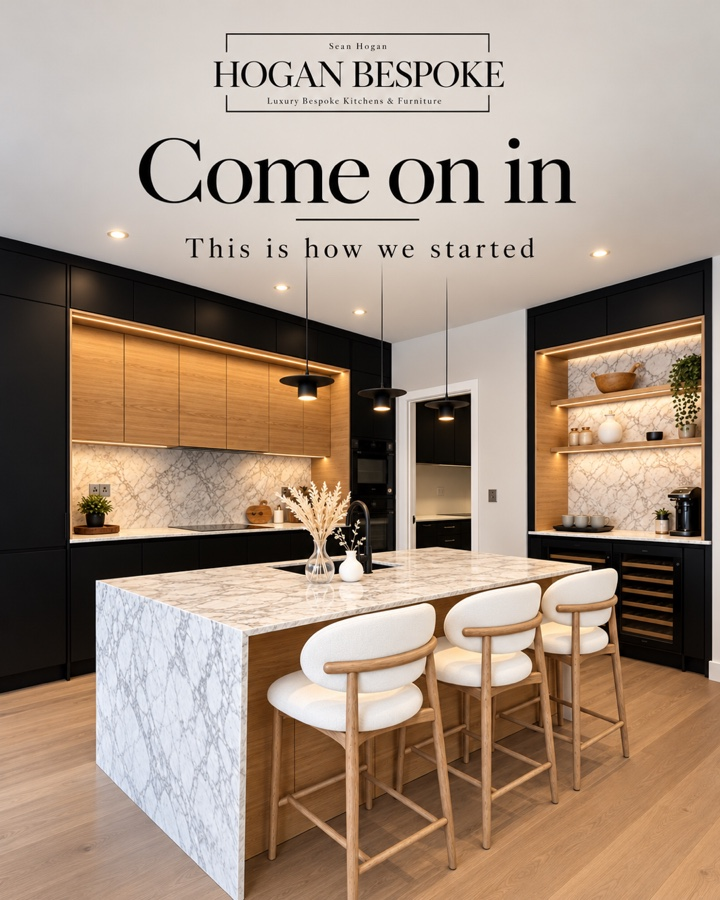
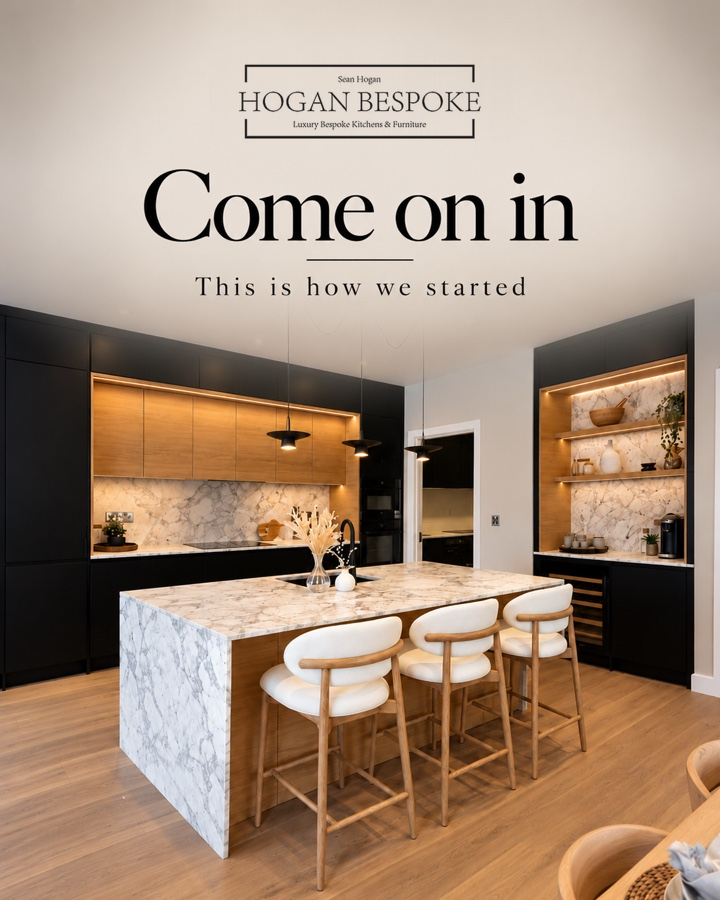
Hogan post 1: corrected cover

diff --git a/public/approve/hogan-bespoke-x96pyh/index.html b/public/approve/hogan-bespoke-x96pyh/index.html
@@ -37,7 +37,7 @@
     <span>Eli Fátima · Irish Business Boosters · hello@irishbusinessboosters.com</span>
   </footer>
 </div>
-<script id="approval-data" type="application/json">{"page": "hogan-bespoke-x96pyh", "client": "Sean", "username": "hogan_bespoke_furniture", "avatar": "logo.png", "location": "Waterford, Ireland", "profile": {"id": "profile", "title": "New bio and highlights", "chips": ["Pick one bio"], "intro": "This is how your profile will look by the end of November: the new bio, the new highlight covers and the new posts at the top.", "about": "Both bios say who you are, what you make, and that you fit all over Ireland. Pick the one that sounds more like you.", "name": "Hogan Bespoke | Kitchens Ireland", "category": "Kitchen & cabinet designer", "link": "hoganbespokefurniture.com", "stats": ["175", "1,407", "609"], "choices": [{"id": "Bio A", "label": "Bio A · leads with the title", "bio": "IrelandSkills cabinetmaking champion 🏆\nBespoke kitchens, wardrobes & media walls\nHandmade in Waterford · Fitted all over Ireland\n👇 Get a quote"}, {"id": "Bio B", "label": "Bio B · softer", "bio": "Award-winning cabinetmaker 🏆\nKitchens, wardrobes, media walls & stairs\nHandmade in Waterford · Fitted all over Ireland\n👇 Get a quote"}], "highlights": [{"src": "covers/light-01-our-story.jpg", "name": "Our Story"}, {"src": "covers/light-02-kitchens.jpg", "name": "Kitchens"}, {"src": "covers/light-03-reviews.jpg", "name": "Reviews"}, {"src": "covers/light-04-wardrobes.jpg", "name": "Wardrobes"}, {"src": "covers/light-05-media-walls.jpg", "name": "Media Walls"}, {"src": "covers/light-06-commercial.jpg", "name": "Commercial"}, {"src": "covers/light-07-process.jpg", "name": "Process"}, {"src": "covers/light-08-joinery.jpg", "name": "Joinery"}, {"src": "covers/light-09-get-a-quote.jpg", "name": "Get a Quote"}], "grid": ["posts/08-commercial.jpg?v=3", "posts/07-christmas-media-wall.jpg?v=3", "posts/06-wardrobes.jpg?v=3", "posts/05-workshop.jpg?v=3", "posts/04-kitchens.jpg?v=3", "posts/03-the-reveal.jpg?v=3", "posts/02-what-we-make.jpg?v=3", "posts/01-slide-01.jpg?v=6", "posts/old-2026-trim-castle-hotel.jpg?v=3"]}, "postsTitle": "Your November posts", "postsIntro": "Eight posts, Mondays and Thursdays. Post 1 is fully designed; for the others you're seeing the cover, and we'll finish the slides as soon as the photos and details are in. The yellow bits are details we still need from you.", "posts": [{"id": "post-01", "date": "2026-11-02", "kind": "carousel", "title": "Our story", "chips": ["Carousel · 9 slides", "Pinned to the top"], "images": ["posts/01-slide-01.jpg?v=6", "posts/01-slide-02.jpg?v=3", "posts/01-slide-03.jpg?v=3", "posts/01-slide-04.jpg?v=3", "posts/01-slide-05.jpg?v=3", "posts/01-slide-06.jpg?v=3", "posts/01-slide-07.jpg?v=3", "posts/01-slide-08.jpg?v=3", "posts/01-slide-09.jpg?v=3"], "about": "Our first post: the story of the company, from the national title in 2017 to opening the workshop in August 2020 and everything we've built since. Mostly photos, with a short caption on each.", "need": "A photo from IrelandSkills 2017 for slide 3. Any old phone photo is fine.", "caption": "Our story, from a national title to kitchens all over Ireland.\n\nIn 2017, our founder Sean Hogan won IrelandSkills, the national championship for cabinetmaking, and went on to captain Team Ireland at WorldSkills in Abu Dhabi.\n\nIn August 2020, in the middle of a pandemic, we opened our workshop in Waterford.\n\nSince then we've designed and built kitchens, wardrobes, media walls and stairs for homes all over Ireland, and fitted out hotels and businesses like Trim Castle Hotel.\n\nEverything is still made by hand in our own workshop, to the same standard.\n\nOver the coming weeks we'll show you more of the work, and how it's made. Glad to have you here.", "tags": "#bespokekitchens #irishkitchens #handmadeinireland #bespokefurniture #waterford"}, {"id": "post-02", "date": "2026-11-05", "kind": "carousel", "title": "What we make", "chips": ["Carousel · 7 slides", "Pinned to the top", "Cover shown"], "images": ["posts/02-what-we-make.jpg?v=3"], "about": "A clear menu of everything you do, one slide per service. It stays pinned so anyone landing on your profile sees it straight away.", "need": "Is anything missing from the list? And do you do handleless kitchens?", "caption": "Everything we make is designed and built for one room only. Here's what that covers:\n\n· Kitchens: shaker, in-frame and handleless, painted or natural wood\n· Wardrobes: fitted, sliding and walk-in\n· Media walls: TV units, fireplaces, shelving and lighting\n· Stairs & joinery: staircases, drinks units, panelling and doors\n· Home offices and utility rooms\n· Commercial fit-outs: hotels, bars, offices and public buildings\n\nWe fit all over Ireland. Tell us what you're planning: send us a message or tap the link in our bio.", "tags": "#bespokefurniture #bespokekitchens #fittedwardrobes #mediawall #madeinireland"}, {"id": "post-03", "date": "2026-11-09", "kind": "reel", "length": "15 s", "title": "The reveal: navy kitchen", "chips": ["Reel"], "images": ["posts/03-the-reveal.jpg?v=3"], "about": "A slow walk into the navy kitchen, past the island, a drawer opening and closing softly. Calm music, no talking.", "need": "A video of this kitchen, if you have one (even a short phone clip). If not, I'll make it from the photos. Roughly how many weeks did it take?", "caption": "Every one of our kitchens is designed and built for one room only.\n\nThis one: navy painted shaker doors, premium stone worktops and a waterfall island. [X] weeks from first measure to final fit.\n\nPlanning a kitchen for 2027? Send us a message or tap the link in our bio.", "tags": "#bespokekitchens #navykitchen #irishkitchens #kitchendesignireland"}, {"id": "post-04", "date": "2026-11-12", "kind": "carousel", "title": "What we make: Kitchens", "chips": ["Carousel · 6 slides", "Series: What we make", "Cover shown"], "images": ["posts/04-kitchens.jpg?v=3"], "about": "The first of the \"What we make\" series. Slides: the styles (shaker, in-frame, handleless) · the materials · what's included · how long it takes · how to start.", "need": "How long does a kitchen usually take, from first visit to fitted? And which worktops do you use most?", "caption": "What goes into a Hogan Bespoke kitchen?\n\n· The style: shaker, in-frame or handleless\n· The wood: solid oak, ash or walnut, painted or natural\n· The worktop: [quartz, stone or solid wood]\n· The design: you see it in 3D before we cut a single board\n· The timing: around [X] weeks from first visit to final fit\n\nAll made in our workshop in Waterford and fitted by our own team, anywhere in Ireland.\n\nSwipe for the details 👉", "tags": "#bespokekitchens #shakerkitchen #irishkitchens #kitchendesignireland"}, {"id": "post-05", "date": "2026-11-16", "kind": "reel", "length": "15–20 s", "title": "From the workshop", "chips": ["Reel"], "images": ["posts/05-workshop.jpg?v=3"], "about": "Quick clips of hands and timber: cutting, shaping, sanding and assembling a door, with the real workshop sound. Ends on the finished piece.", "need": "We film this together on Tuesday 27 October. Five minutes at the bench is plenty.", "caption": "Before it's a kitchen door, it's a board of [timber] on our bench in Waterford.\n\nWe cut, shape, sand and assemble everything ourselves, so we control every millimetre, and nothing arrives on site that we haven't checked by hand.", "tags": "#handmadeinireland #cabinetmaker #bespokefurniture #waterford"}, {"id": "post-06", "date": "2026-11-19", "kind": "carousel", "title": "What we make: Wardrobes", "chips": ["Carousel · 6 slides", "Series: What we make", "Cover shown"], "images": ["posts/06-wardrobes.jpg?v=3"], "about": "Series, part 2. Slides: fitted · sliding · walk-in · children's rooms · what goes inside (rails, drawers, shoe racks, lighting).", "caption": "Fitted, sliding or walk-in: every wardrobe we make is built around the room and what goes in it.\n\nInside, you choose: hanging rails and pull-down rails, drawers, shoe racks, shelving and LED lighting.\n\nSwipe to see the options 👉\n\nThinking about a wardrobe? Send us a message with a photo of the space.", "tags": "#fittedwardrobes #walkinwardrobe #bespokefurniture #irishhomes"}, {"id": "post-07", "date": "2026-11-23", "kind": "reel", "length": "10–15 s", "title": "The room you'll spend Christmas in", "chips": ["Reel", "Christmas"], "images": ["posts/07-christmas-media-wall.jpg?v=3"], "about": "Starts on a detail (the LED light, a shelf) and opens out to the whole media wall, with the fire on.", "need": "A video of a media wall with the lights or fire on, if you have one.", "caption": "The room everyone ends up in at Christmas.\n\nThis media wall hides every cable, frames the fire and lights up the shelves, all built to fit the room to the millimetre.\n\nToo late for this Christmas? Plenty of time for the next one. Send us a message.", "tags": "#mediawall #livingroomideas #irishhomes #christmasathome"}, {"id": "post-08", "date": "2026-11-26", "kind": "carousel", "title": "What we make: Commercial", "chips": ["Carousel · 6 slides", "Series: What we make", "Cover shown"], "images": ["posts/08-commercial.jpg?v=3"], "about": "Series, part 3: the Trim Castle Hotel fit-out, with the other businesses you've built for on the last slide.", "need": "Are you happy for us to name The Fitzwilton, Bausch + Lomb, Clonmel Credit Union and the Garda station? I can leave out any of them.", "caption": "It's not only homes.\n\nWe recently completed the fit-out at Trim Castle Hotel: [what we built, e.g. the bar and back bar], made in our Waterford workshop and fitted on site.\n\nOver the years we've also built for The Fitzwilton Hotel, Bausch + Lomb, Clonmel Credit Union and Waterford Garda Station.\n\nPlanning a fit-out? Email sales@hoganbespoke.com.", "tags": "#commercialjoinery #hotelinteriors #shopfitting #madeinireland"}]}</script>
+<script id="approval-data" type="application/json">{"page": "hogan-bespoke-x96pyh", "client": "Sean", "username": "hogan_bespoke_furniture", "avatar": "logo.png", "location": "Waterford, Ireland", "profile": {"id": "profile", "title": "New bio and highlights", "chips": ["Pick one bio"], "intro": "This is how your profile will look by the end of November: the new bio, the new highlight covers and the new posts at the top.", "about": "Both bios say who you are, what you make, and that you fit all over Ireland. Pick the one that sounds more like you.", "name": "Hogan Bespoke | Kitchens Ireland", "category": "Kitchen & cabinet designer", "link": "hoganbespokefurniture.com", "stats": ["175", "1,407", "609"], "choices": [{"id": "Bio A", "label": "Bio A · leads with the title", "bio": "IrelandSkills cabinetmaking champion 🏆\nBespoke kitchens, wardrobes & media walls\nHandmade in Waterford · Fitted all over Ireland\n👇 Get a quote"}, {"id": "Bio B", "label": "Bio B · softer", "bio": "Award-winning cabinetmaker 🏆\nKitchens, wardrobes, media walls & stairs\nHandmade in Waterford · Fitted all over Ireland\n👇 Get a quote"}], "highlights": [{"src": "covers/light-01-our-story.jpg", "name": "Our Story"}, {"src": "covers/light-02-kitchens.jpg", "name": "Kitchens"}, {"src": "covers/light-03-reviews.jpg", "name": "Reviews"}, {"src": "covers/light-04-wardrobes.jpg", "name": "Wardrobes"}, {"src": "covers/light-05-media-walls.jpg", "name": "Media Walls"}, {"src": "covers/light-06-commercial.jpg", "name": "Commercial"}, {"src": "covers/light-07-process.jpg", "name": "Process"}, {"src": "covers/light-08-joinery.jpg", "name": "Joinery"}, {"src": "covers/light-09-get-a-quote.jpg", "name": "Get a Quote"}], "grid": ["posts/08-commercial.jpg?v=3", "posts/07-christmas-media-wall.jpg?v=3", "posts/06-wardrobes.jpg?v=3", "posts/05-workshop.jpg?v=3", "posts/04-kitchens.jpg?v=3", "posts/03-the-reveal.jpg?v=3", "posts/02-what-we-make.jpg?v=3", "posts/01-slide-01.jpg?v=7", "posts/old-2026-trim-castle-hotel.jpg?v=3"]}, "postsTitle": "Your November posts", "postsIntro": "Eight posts, Mondays and Thursdays. Post 1 is fully designed; for the others you're seeing the cover, and we'll finish the slides as soon as the photos and details are in. The yellow bits are details we still need from you.", "posts": [{"id": "post-01", "date": "2026-11-02", "kind": "carousel", "title": "Our story", "chips": ["Carousel · 9 slides", "Pinned to the top"], "images": ["posts/01-slide-01.jpg?v=7", "posts/01-slide-02.jpg?v=3", "posts/01-slide-03.jpg?v=3", "posts/01-slide-04.jpg?v=3", "posts/01-slide-05.jpg?v=3", "posts/01-slide-06.jpg?v=3", "posts/01-slide-07.jpg?v=3", "posts/01-slide-08.jpg?v=3", "posts/01-slide-09.jpg?v=3"], "about": "Our first post: the story of the company, from the national title in 2017 to opening the workshop in August 2020 and everything we've built since. Mostly photos, with a short caption on each.", "need": "A photo from IrelandSkills 2017 for slide 3. Any old phone photo is fine.", "caption": "Our story, from a national title to kitchens all over Ireland.\n\nIn 2017, our founder Sean Hogan won IrelandSkills, the national championship for cabinetmaking, and went on to captain Team Ireland at WorldSkills in Abu Dhabi.\n\nIn August 2020, in the middle of a pandemic, we opened our workshop in Waterford.\n\nSince then we've designed and built kitchens, wardrobes, media walls and stairs for homes all over Ireland, and fitted out hotels and businesses like Trim Castle Hotel.\n\nEverything is still made by hand in our own workshop, to the same standard.\n\nOver the coming weeks we'll show you more of the work, and how it's made. Glad to have you here.", "tags": "#bespokekitchens #irishkitchens #handmadeinireland #bespokefurniture #waterford"}, {"id": "post-02", "date": "2026-11-05", "kind": "carousel", "title": "What we make", "chips": ["Carousel · 7 slides", "Pinned to the top", "Cover shown"], "images": ["posts/02-what-we-make.jpg?v=3"], "about": "A clear menu of everything you do, one slide per service. It stays pinned so anyone landing on your profile sees it straight away.", "need": "Is anything missing from the list? And do you do handleless kitchens?", "caption": "Everything we make is designed and built for one room only. Here's what that covers:\n\n· Kitchens: shaker, in-frame and handleless, painted or natural wood\n· Wardrobes: fitted, sliding and walk-in\n· Media walls: TV units, fireplaces, shelving and lighting\n· Stairs & joinery: staircases, drinks units, panelling and doors\n· Home offices and utility rooms\n· Commercial fit-outs: hotels, bars, offices and public buildings\n\nWe fit all over Ireland. Tell us what you're planning: send us a message or tap the link in our bio.", "tags": "#bespokefurniture #bespokekitchens #fittedwardrobes #mediawall #madeinireland"}, {"id": "post-03", "date": "2026-11-09", "kind": "reel", "length": "15 s", "title": "The reveal: navy kitchen", "chips": ["Reel"], "images": ["posts/03-the-reveal.jpg?v=3"], "about": "A slow walk into the navy kitchen, past the island, a drawer opening and closing softly. Calm music, no talking.", "need": "A video of this kitchen, if you have one (even a short phone clip). If not, I'll make it from the photos. Roughly how many weeks did it take?", "caption": "Every one of our kitchens is designed and built for one room only.\n\nThis one: navy painted shaker doors, premium stone worktops and a waterfall island. [X] weeks from first measure to final fit.\n\nPlanning a kitchen for 2027? Send us a message or tap the link in our bio.", "tags": "#bespokekitchens #navykitchen #irishkitchens #kitchendesignireland"}, {"id": "post-04", "date": "2026-11-12", "kind": "carousel", "title": "What we make: Kitchens", "chips": ["Carousel · 6 slides", "Series: What we make", "Cover shown"], "images": ["posts/04-kitchens.jpg?v=3"], "about": "The first of the \"What we make\" series. Slides: the styles (shaker, in-frame, handleless) · the materials · what's included · how long it takes · how to start.", "need": "How long does a kitchen usually take, from first visit to fitted? And which worktops do you use most?", "caption": "What goes into a Hogan Bespoke kitchen?\n\n· The style: shaker, in-frame or handleless\n· The wood: solid oak, ash or walnut, painted or natural\n· The worktop: [quartz, stone or solid wood]\n· The design: you see it in 3D before we cut a single board\n· The timing: around [X] weeks from first visit to final fit\n\nAll made in our workshop in Waterford and fitted by our own team, anywhere in Ireland.\n\nSwipe for the details 👉", "tags": "#bespokekitchens #shakerkitchen #irishkitchens #kitchendesignireland"}, {"id": "post-05", "date": "2026-11-16", "kind": "reel", "length": "15–20 s", "title": "From the workshop", "chips": ["Reel"], "images": ["posts/05-workshop.jpg?v=3"], "about": "Quick clips of hands and timber: cutting, shaping, sanding and assembling a door, with the real workshop sound. Ends on the finished piece.", "need": "We film this together on Tuesday 27 October. Five minutes at the bench is plenty.", "caption": "Before it's a kitchen door, it's a board of [timber] on our bench in Waterford.\n\nWe cut, shape, sand and assemble everything ourselves, so we control every millimetre, and nothing arrives on site that we haven't checked by hand.", "tags": "#handmadeinireland #cabinetmaker #bespokefurniture #waterford"}, {"id": "post-06", "date": "2026-11-19", "kind": "carousel", "title": "What we make: Wardrobes", "chips": ["Carousel · 6 slides", "Series: What we make", "Cover shown"], "images": ["posts/06-wardrobes.jpg?v=3"], "about": "Series, part 2. Slides: fitted · sliding · walk-in · children's rooms · what goes inside (rails, drawers, shoe racks, lighting).", "caption": "Fitted, sliding or walk-in: every wardrobe we make is built around the room and what goes in it.\n\nInside, you choose: hanging rails and pull-down rails, drawers, shoe racks, shelving and LED lighting.\n\nSwipe to see the options 👉\n\nThinking about a wardrobe? Send us a message with a photo of the space.", "tags": "#fittedwardrobes #walkinwardrobe #bespokefurniture #irishhomes"}, {"id": "post-07", "date": "2026-11-23", "kind": "reel", "length": "10–15 s", "title": "The room you'll spend Christmas in", "chips": ["Reel", "Christmas"], "images": ["posts/07-christmas-media-wall.jpg?v=3"], "about": "Starts on a detail (the LED light, a shelf) and opens out to the whole media wall, with the fire on.", "need": "A video of a media wall with the lights or fire on, if you have one.", "caption": "The room everyone ends up in at Christmas.\n\nThis media wall hides every cable, frames the fire and lights up the shelves, all built to fit the room to the millimetre.\n\nToo late for this Christmas? Plenty of time for the next one. Send us a message.", "tags": "#mediawall #livingroomideas #irishhomes #christmasathome"}, {"id": "post-08", "date": "2026-11-26", "kind": "carousel", "title": "What we make: Commercial", "chips": ["Carousel · 6 slides", "Series: What we make", "Cover shown"], "images": ["posts/08-commercial.jpg?v=3"], "about": "Series, part 3: the Trim Castle Hotel fit-out, with the other businesses you've built for on the last slide.", "need": "Are you happy for us to name The Fitzwilton, Bausch + Lomb, Clonmel Credit Union and the Garda station? I can leave out any of them.", "caption": "It's not only homes.\n\nWe recently completed the fit-out at Trim Castle Hotel: [what we built, e.g. the bar and back bar], made in our Waterford workshop and fitted on site.\n\nOver the years we've also built for The Fitzwilton Hotel, Bausch + Lomb, Clonmel Credit Union and Waterford Garda Station.\n\nPlanning a fit-out? Email sales@hoganbespoke.com.", "tags": "#commercialjoinery #hotelinteriors #shopfitting #madeinireland"}]}</script>
 <script src="/approve/_assets/approve.js?v=3"></script>
 </body>
 </html>
